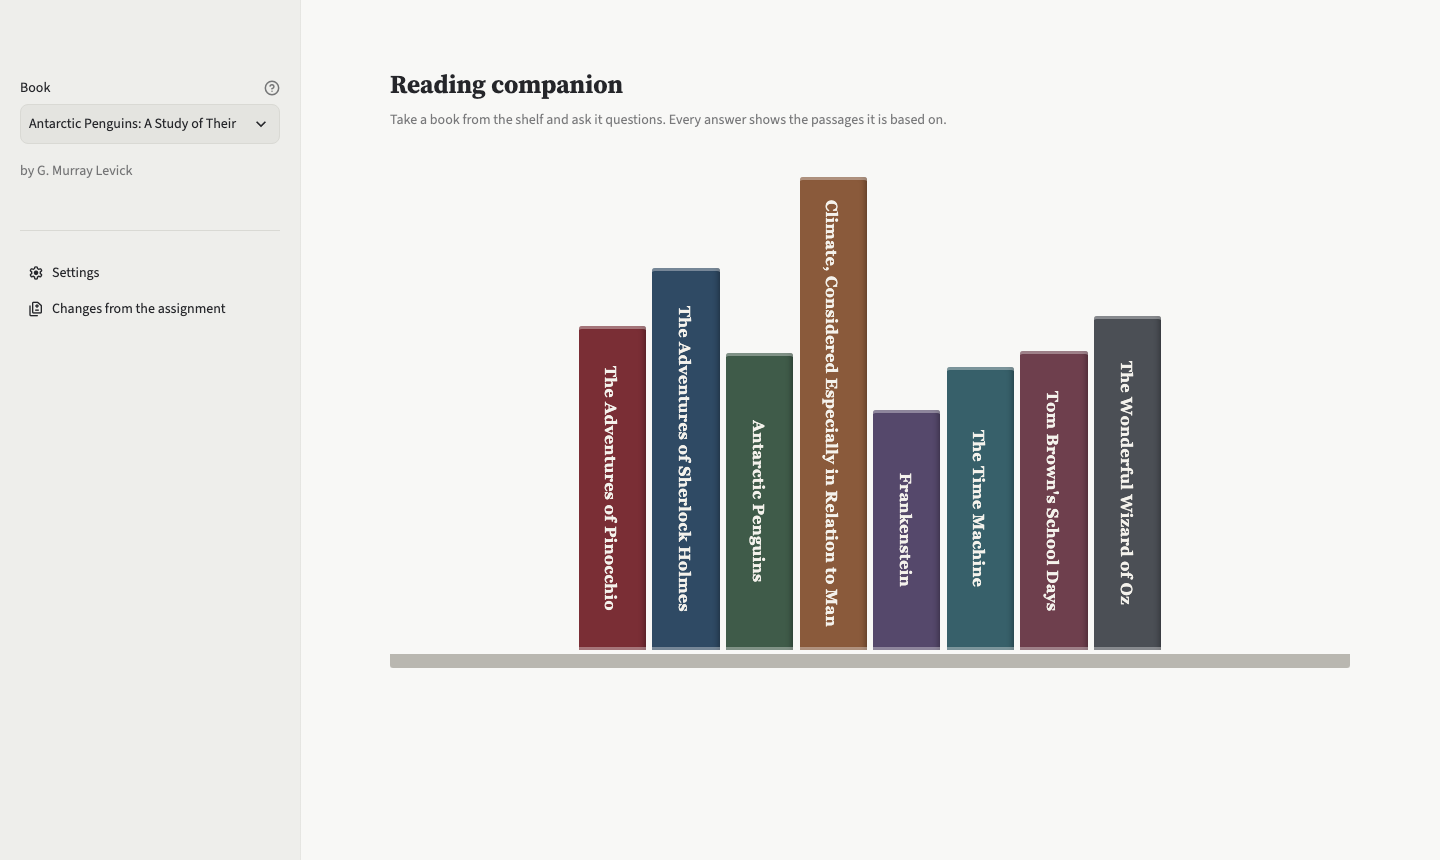
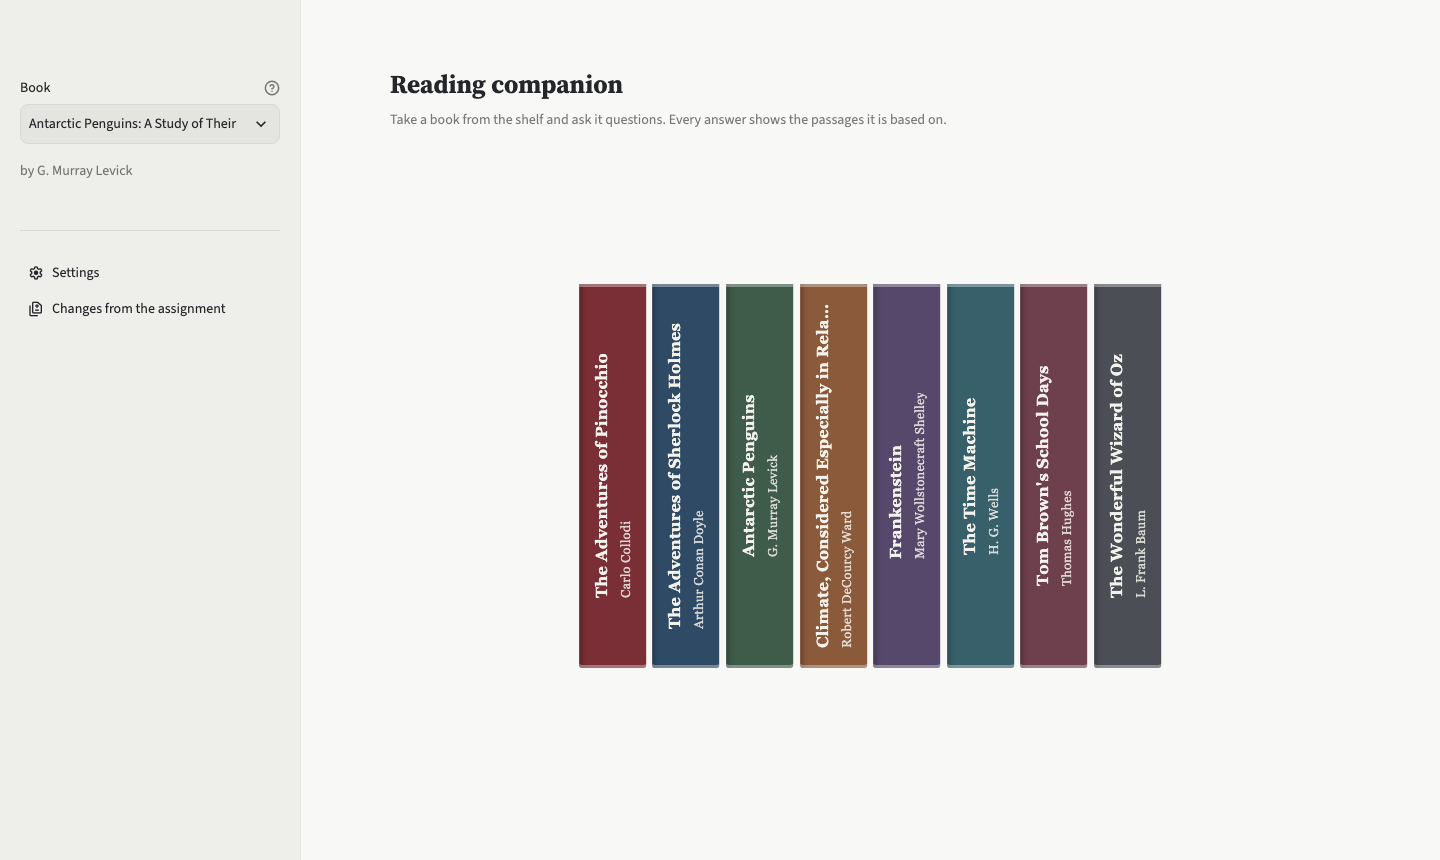
improvements to the reader, layout and homepage

Changed region(s): [[0.25, 0.1814, 0.9375, 0.786]]

diff --git a/app/views/home.css b/app/views/home.css
@@ -25,16 +25,13 @@ div:has(> .st-key-shelf-scroll) {
   margin-top: auto; /* the shelf sits at the bottom of the area (auto, not flex-end: that would clip the top when it scrolls) */
 }
 
-/* The shelf: the spines stand on a plank */
+/* The shelf: the spines stand in a row */
 .st-key-shelf {
   align-items: flex-end;
   justify-content: center;
   flex-wrap: wrap;
   gap: 0.4rem !important;
-  padding: 0 1rem 0.2rem;
-  border-bottom: 14px solid #b9b7b0;
-  border-radius: 0 0 3px 3px;
-  box-shadow: 0 10px 14px -8px rgb(30 30 40 / 0.35);
+  padding: 0 1rem;
 }
 
 /* A spine: vertical title, cloth colour, gilt lines at the ends */
@@ -44,8 +41,11 @@ div:has(> .st-key-shelf-scroll) {
 
 .st-key-shelf button {
   width: 4.2rem;
+  height: 24rem; /* all spines have the same size */
   padding: 1.1rem 0;
+  overflow: hidden;
   writing-mode: vertical-rl;
+  transform: rotate(180deg); /* the title reads from bottom to top */
   color: #f4f2ec;
   border: 0;
   border-radius: 3px 3px 0 0;
@@ -65,13 +65,30 @@ div:has(> .st-key-shelf-scroll) {
   white-space: nowrap;
   overflow: hidden;
   text-overflow: ellipsis;
-  max-height: 100%;
+  max-height: 21.5rem;
+  margin: 0;
+}
+
+/* title and author side by side, both starting at the bottom of the spine */
+.st-key-shelf button [data-testid="stMarkdownContainer"] {
+  display: flex;
+  flex-direction: column;
+  align-items: flex-start;
+  gap: 0.4rem;
+  height: 100%;
+}
+
+/* the author: the second line of the spine, smaller */
+.st-key-shelf button p + p {
+  font-size: 0.8rem;
+  font-weight: 400;
+  opacity: 0.85;
 }
 
 .st-key-shelf button:hover,
 .st-key-shelf button:focus-visible {
   color: #fff;
-  transform: translateY(-0.6rem);
+  transform: rotate(180deg) translateY(0.6rem);
   box-shadow:
     inset 0 5px 0 -2px rgb(255 255 255 / 0.5),
     inset 0 -5px 0 -2px rgb(255 255 255 / 0.5),
@@ -81,11 +98,11 @@ div:has(> .st-key-shelf-scroll) {
 @media (max-width: 800px) {
   .st-key-shelf button {
     width: 3.2rem;
-    max-height: 15rem;
-    overflow: hidden; /* a long title is cut at the end of the spine */
+    height: 17rem; /* a long title is cut at the end of the spine */
   }
 
   .st-key-shelf button p {
     font-size: 0.9rem;
+    max-height: 14.5rem;
   }
 }

diff --git a/app/views/chat.css b/app/views/chat.css
@@ -28,9 +28,9 @@ div:has(> .st-key-chat-pane) {
 /* The book: a panel fixed to the right edge of the window, like a second sidebar. It does not move when the chat grows. */
 .st-key-reader-panel {
   position: fixed;
-  top: 4.25rem;
-  right: 0.75rem;
-  bottom: 0.75rem; /* a margin on every side: the book is a card on the page */
+  top: var(--reader-top, 4.25rem);
+  right: var(--reader-edge, 0.75rem);
+  bottom: var(--reader-edge, 0.75rem); /* a margin on every side: the book is a card on the page */
   width: var(--reader-width, 38vw);
   z-index: 1000000; /* above the sidebar, for the full-screen book */
   padding: 0.6rem 0.75rem 0.4rem;

diff --git a/app/views/chat.py b/app/views/chat.py
@@ -19,7 +19,7 @@ from book_rag.selection import question_about
 VISIBLE_EXCHANGES = 10  # questions and answers drawn at first; "Show earlier" adds this many more
 PANE_HEIGHT = 540  # pixels, only a start: views/chat.css sets the real height from the window
 READER_WIDTH, READER_PADDING = "38vw", "calc(38vw + 2.75rem)"  # the book panel, and the room the chat leaves for it
-FULL_WIDTH = "calc(100vw - 4rem)"  # full screen: a strip of the page stays visible
+FULL_INSET = "1.5rem"  # full screen: the same strip of the page stays visible on every side
 
 
 @st.cache_resource(show_spinner="Preparing the book (the first time takes a moment) ...")
@@ -122,8 +122,13 @@ with st.container(key="chat-scroller"):  # hidden by chat.css
 if reader:
     # The book is a panel fixed to the right edge of the window (views/chat.css); it can fill the window.
     full = st.session_state.get("reader_full", False)
-    width, padding = (FULL_WIDTH, "0px") if full else (READER_WIDTH, READER_PADDING)
-    st.html(f"<style>:root {{ --reader-width: {width}; --reader-padding: {padding}; }}</style>")
+    width, padding = (f"calc(100vw - 2 * {FULL_INSET})", "0px") if full else (READER_WIDTH, READER_PADDING)
+    edge = FULL_INSET if full else "0.75rem"
+    top = FULL_INSET if full else "4.25rem"
+    st.html(
+        f"<style>:root {{ --reader-width: {width}; --reader-padding: {padding}; "
+        f"--reader-edge: {edge}; --reader-top: {top}; }}</style>"
+    )
     with st.container(key="reader-panel"):
         with st.container(horizontal=True, vertical_alignment="center", key="reader-header"):
             st.markdown(f"**{book.title}**")

diff --git a/app/views/home.py b/app/views/home.py
@@ -20,13 +20,11 @@ def spine_title(book) -> str:
 
 
 def spine_css() -> str:
-    """One colour and height per book (taller for a longer title, so that the spines differ like real ones)."""
+    """One cloth colour per book; all spines have the same size."""
     rules = []
     for number, book in enumerate(BOOKS.values()):
-        height = min(30, 9 + len(spine_title(book)) * 0.42 + (number % 3))
         rules.append(
-            f".st-key-open-chat-{book.id} button {{ background: {SPINE_COLOURS[number % len(SPINE_COLOURS)]}; "
-            f"height: {height:.1f}rem; }}"
+            f".st-key-open-chat-{book.id} button {{ background: {SPINE_COLOURS[number % len(SPINE_COLOURS)]}; }}"
         )
     return "<style>" + "\n".join(rules) + "</style>"
 
@@ -42,7 +40,7 @@ with (
 ):
     for book in BOOKS.values():
         st.button(
-            spine_title(book),
+            f"{spine_title(book)}\n\n{book.author}",
             key=f"open-chat-{book.id}",
             on_click=open_chat,
             args=(book.id,),

diff --git a/tests/browser/test_layout_browser.py b/tests/browser/test_layout_browser.py
@@ -31,7 +31,9 @@ def test_the_reader_is_a_panel_on_the_right_that_can_fill_the_window(page):
     page.locator(".st-key-reader-expand button:visible").first.click()
     page.wait_for_timeout(500)
     full = panel.bounding_box()
-    assert full["width"] > 1440 - 80 and full["x"] > 20  # a strip of the page stays visible on the left
+    assert full["x"] > 20  # a strip of the page stays visible ...
+    margins = [full["x"], full["y"], 1440 - full["x"] - full["width"], 800 - full["y"] - full["height"]]
+    assert max(margins) - min(margins) < 2  # ... and it is the same on every side
     page.locator(".st-key-reader-expand button:visible").first.click()
     page.wait_for_timeout(500)
     assert panel.bounding_box()["width"] == pytest.approx(narrow["width"], abs=2)

diff --git a/docs/changes.md b/docs/changes.md
@@ -38,7 +38,7 @@ every setup. Reports: `evals/reports/`; the metrics are explained in `evals/READ
 | Evaluation | none | 72 questions with a held-out split, retrieval and answer metrics, an LLM judge, reports and a dashboard | Without it every change was a guess; the held-out split showed which gains were real |
 | Agent | one retrieval, one answer | **off by default**; the Settings page (`BOOK_RAG_AGENT=1`, `--agent`) lets the model rephrase the question and search again: at most 3 calls and 5 searches, stops when a search finds nothing closer, only this book (no web search, no other tool) | Measured as above: no gain for facts at 1.7 to 3.2 times the calls |
 | Books | one book per group | all eight books, chosen in the sidebar; one Chroma collection per book, built the first time a book is opened | One app serves the whole library; books never mix |
-| Reading the source | the `start_index` of each passage | "Read in the book" opens the text in a panel on the right (icon buttons make it full screen or close it, leaving a thin strip of the page visible; on a phone it always fills the screen) at the passage, highlighted, with a progress bar at the top, a pager at the bottom (back and forward buttons and a page field: "Page 12 of 64"), page markers and a jump to any page | A reader can check an answer in context and keep reading. Pages are virtual (2,500 characters): the files have no real pages |
+| Reading the source | the `start_index` of each passage | "Read in the book" opens the text in a panel on the right (icon buttons make it full screen or close it, leaving the same thin strip of the page visible on every side; on a phone it always fills the screen) at the passage, highlighted, with a progress bar at the top, a pager at the bottom (back and forward buttons and a page field: "Page 12 of 64"), page markers and a jump to any page | A reader can check an answer in context and keep reading. Pages are virtual (2,500 characters): the files have no real pages |
 | Language model | Groq `gpt-oss-20b` | Mistral by default (`mistral-small-latest` answers, `mistral-large-latest` judges); `BOOK_RAG_LLM=groq` switches back | The free Groq plan allows 200,000 tokens a day. `llm.py` is the only module that names a provider |
 
 ## Why e5 and not MiniLM
@@ -92,7 +92,7 @@ and the question uses other words than the book ("feed on" against "feeding on t
 | Asking about a text | one typed question | select text in a question, an answer, a passage or the book, then click "Ask about this" |
 | Long chats | the whole history is drawn | the latest 10 exchanges; "Show earlier questions" adds 10 (Streamlit draws every element it is given: 8,300 elements after 60 questions without the cap, about 1,600 with it) |
 | Design | Streamlit defaults | a library look: pale grey paper, ink text, one oxblood accent, serif headings and book text (`.streamlit/config.toml`, `app/views/chat.css`) |
-| Start screen | a fixed book per group | the first page is a shelf with the eight books as spines with vertical titles; a click on a spine opens the chat of that book. Only the shelf scrolls, not the page |
+| Start screen | a fixed book per group | the first page is a shelf with the eight books as equally sized spines with the title and the author running from bottom to top; a click on a spine opens the chat of that book. Only the shelf scrolls, not the page |
 | Page layout | one scrolling page | the chat page never scrolls as a whole: the book's title stays at the top, the chat and the book scroll inside their own areas |
 | Settings page | none | the agent switch and the language model in use |
 | Command line | loop until `quit` | `quit` or `exit`, `--book`, `--agent`; shares one `Companion` object with the web app |

diff --git a/docs/agent-log.md b/docs/agent-log.md
@@ -283,3 +283,7 @@ coverage of the evaluation command, running the evaluation and the live tests on
   scrolls inside itself, the title stays in view. On a phone the spines wrap into rows and long titles are cut.
 - Friction: a flex container with `justify-content: flex-end` clips the top when it scrolls (used `margin-top: auto`); Streamlit renders a
   hidden duplicate of each button with a tooltip, so tests use `button:visible`.
+
+## Follow-up (two small changes)
+- Full-screen reader: the margin is now the same (1.5rem) on all four sides; before, the top and left were larger. Browser test checks it.
+- Start screen: titles read from bottom to top, with the author as a second, smaller line; all spines have the same size (long titles end with "…"); the plank under the books is gone. Screenshots retaken. Not committed (no request this time).
